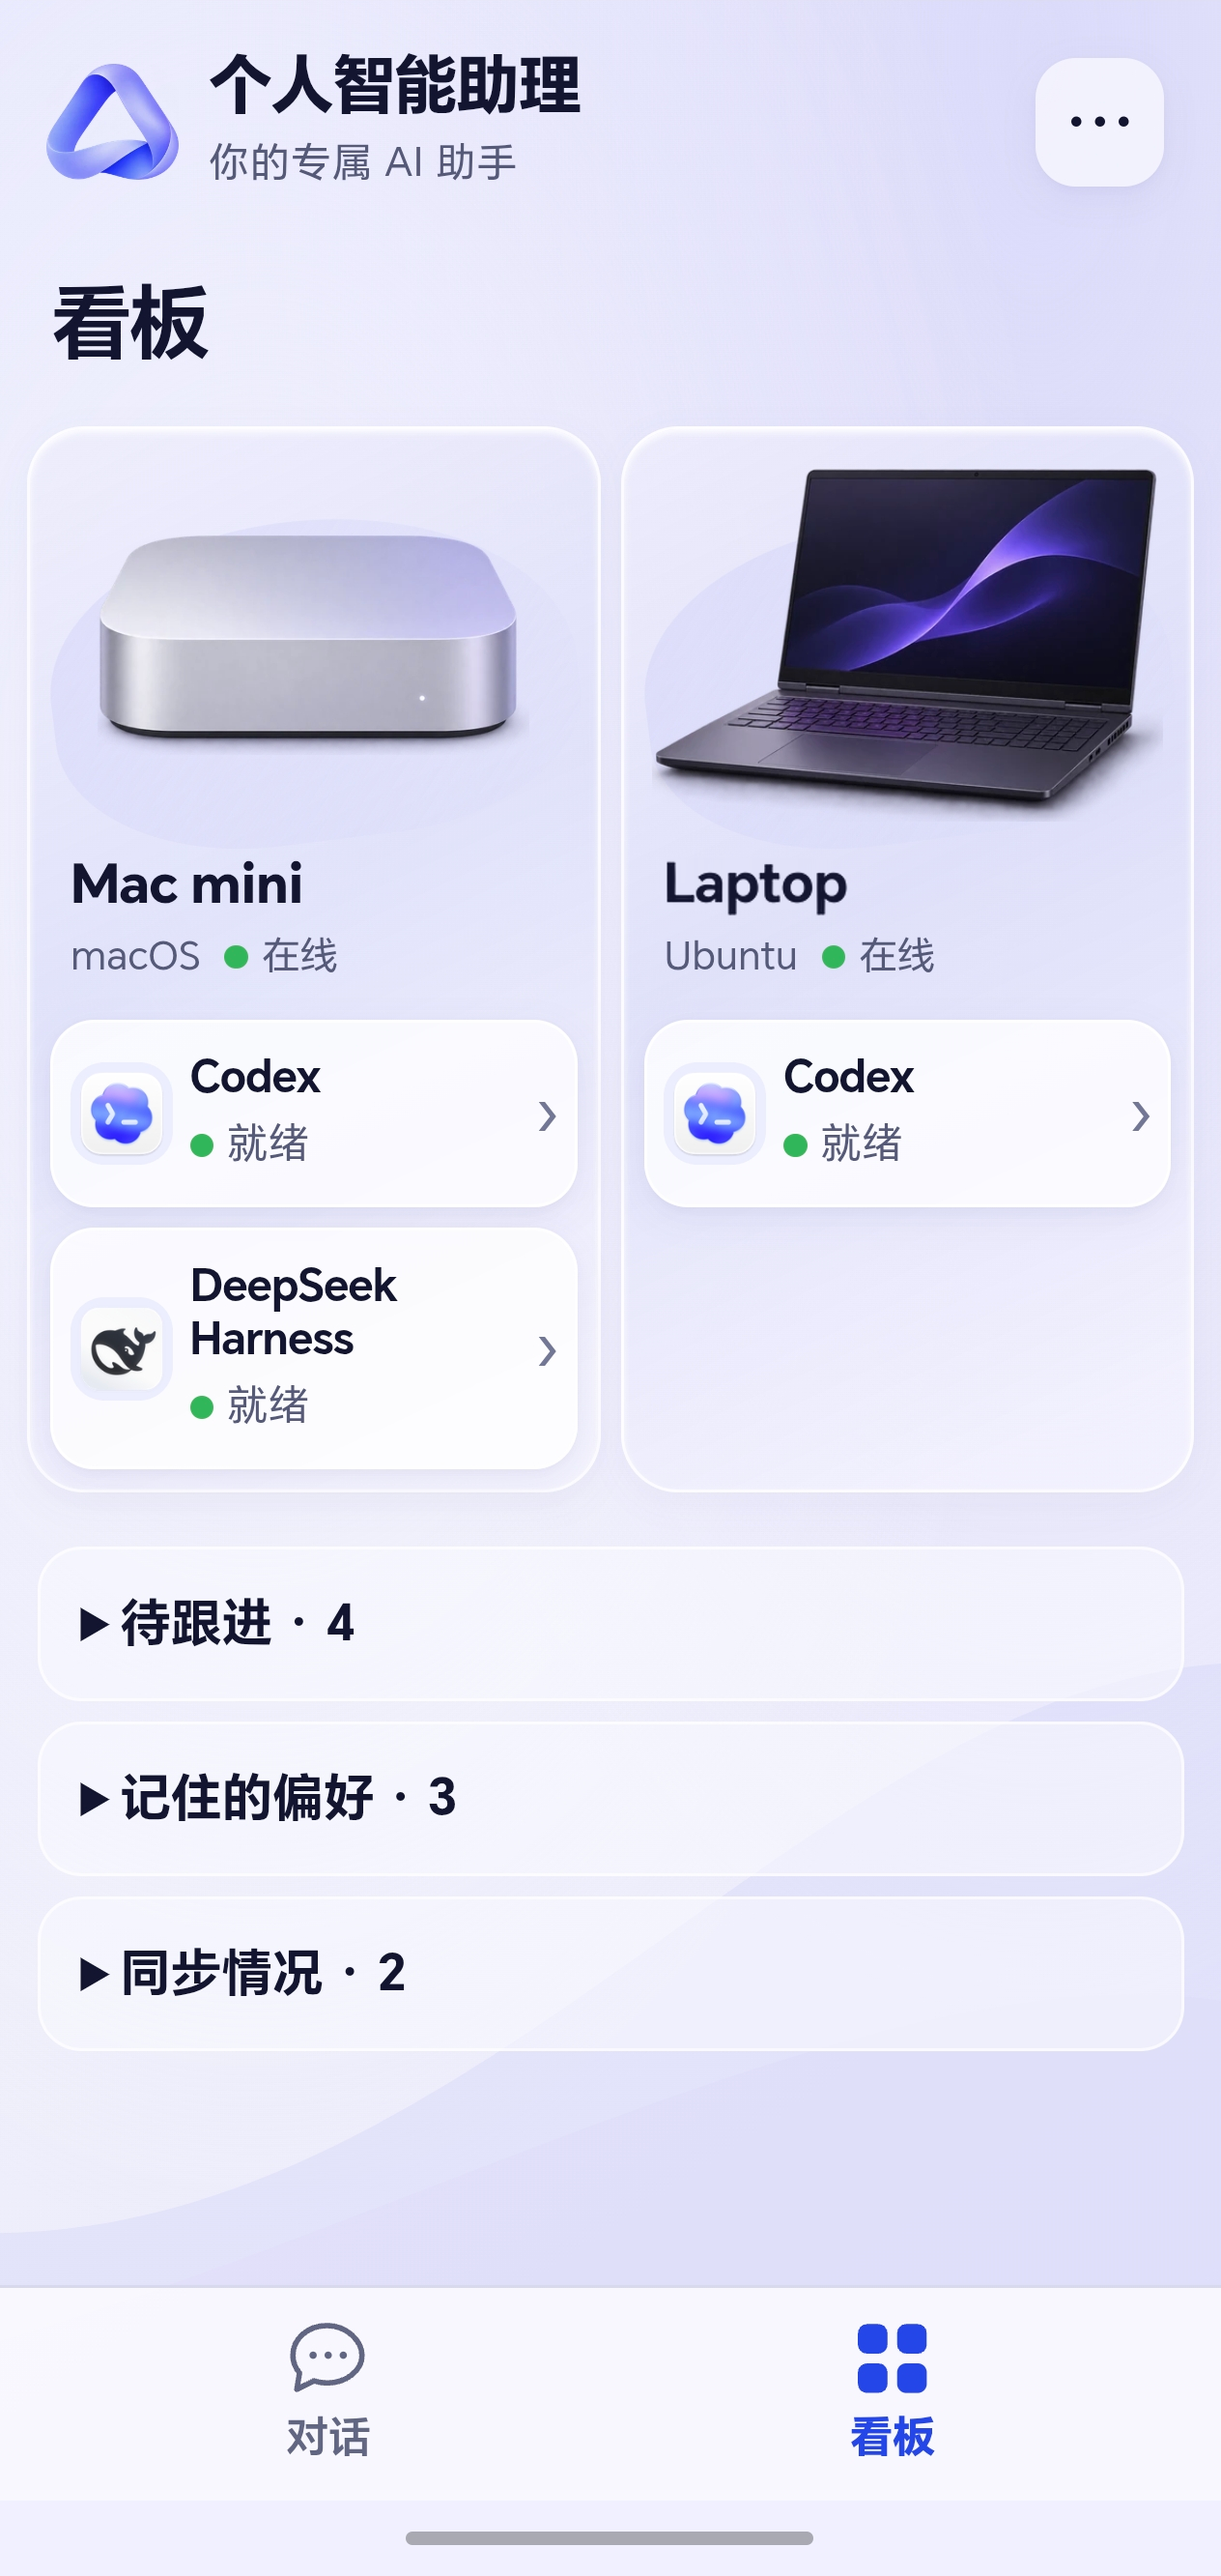
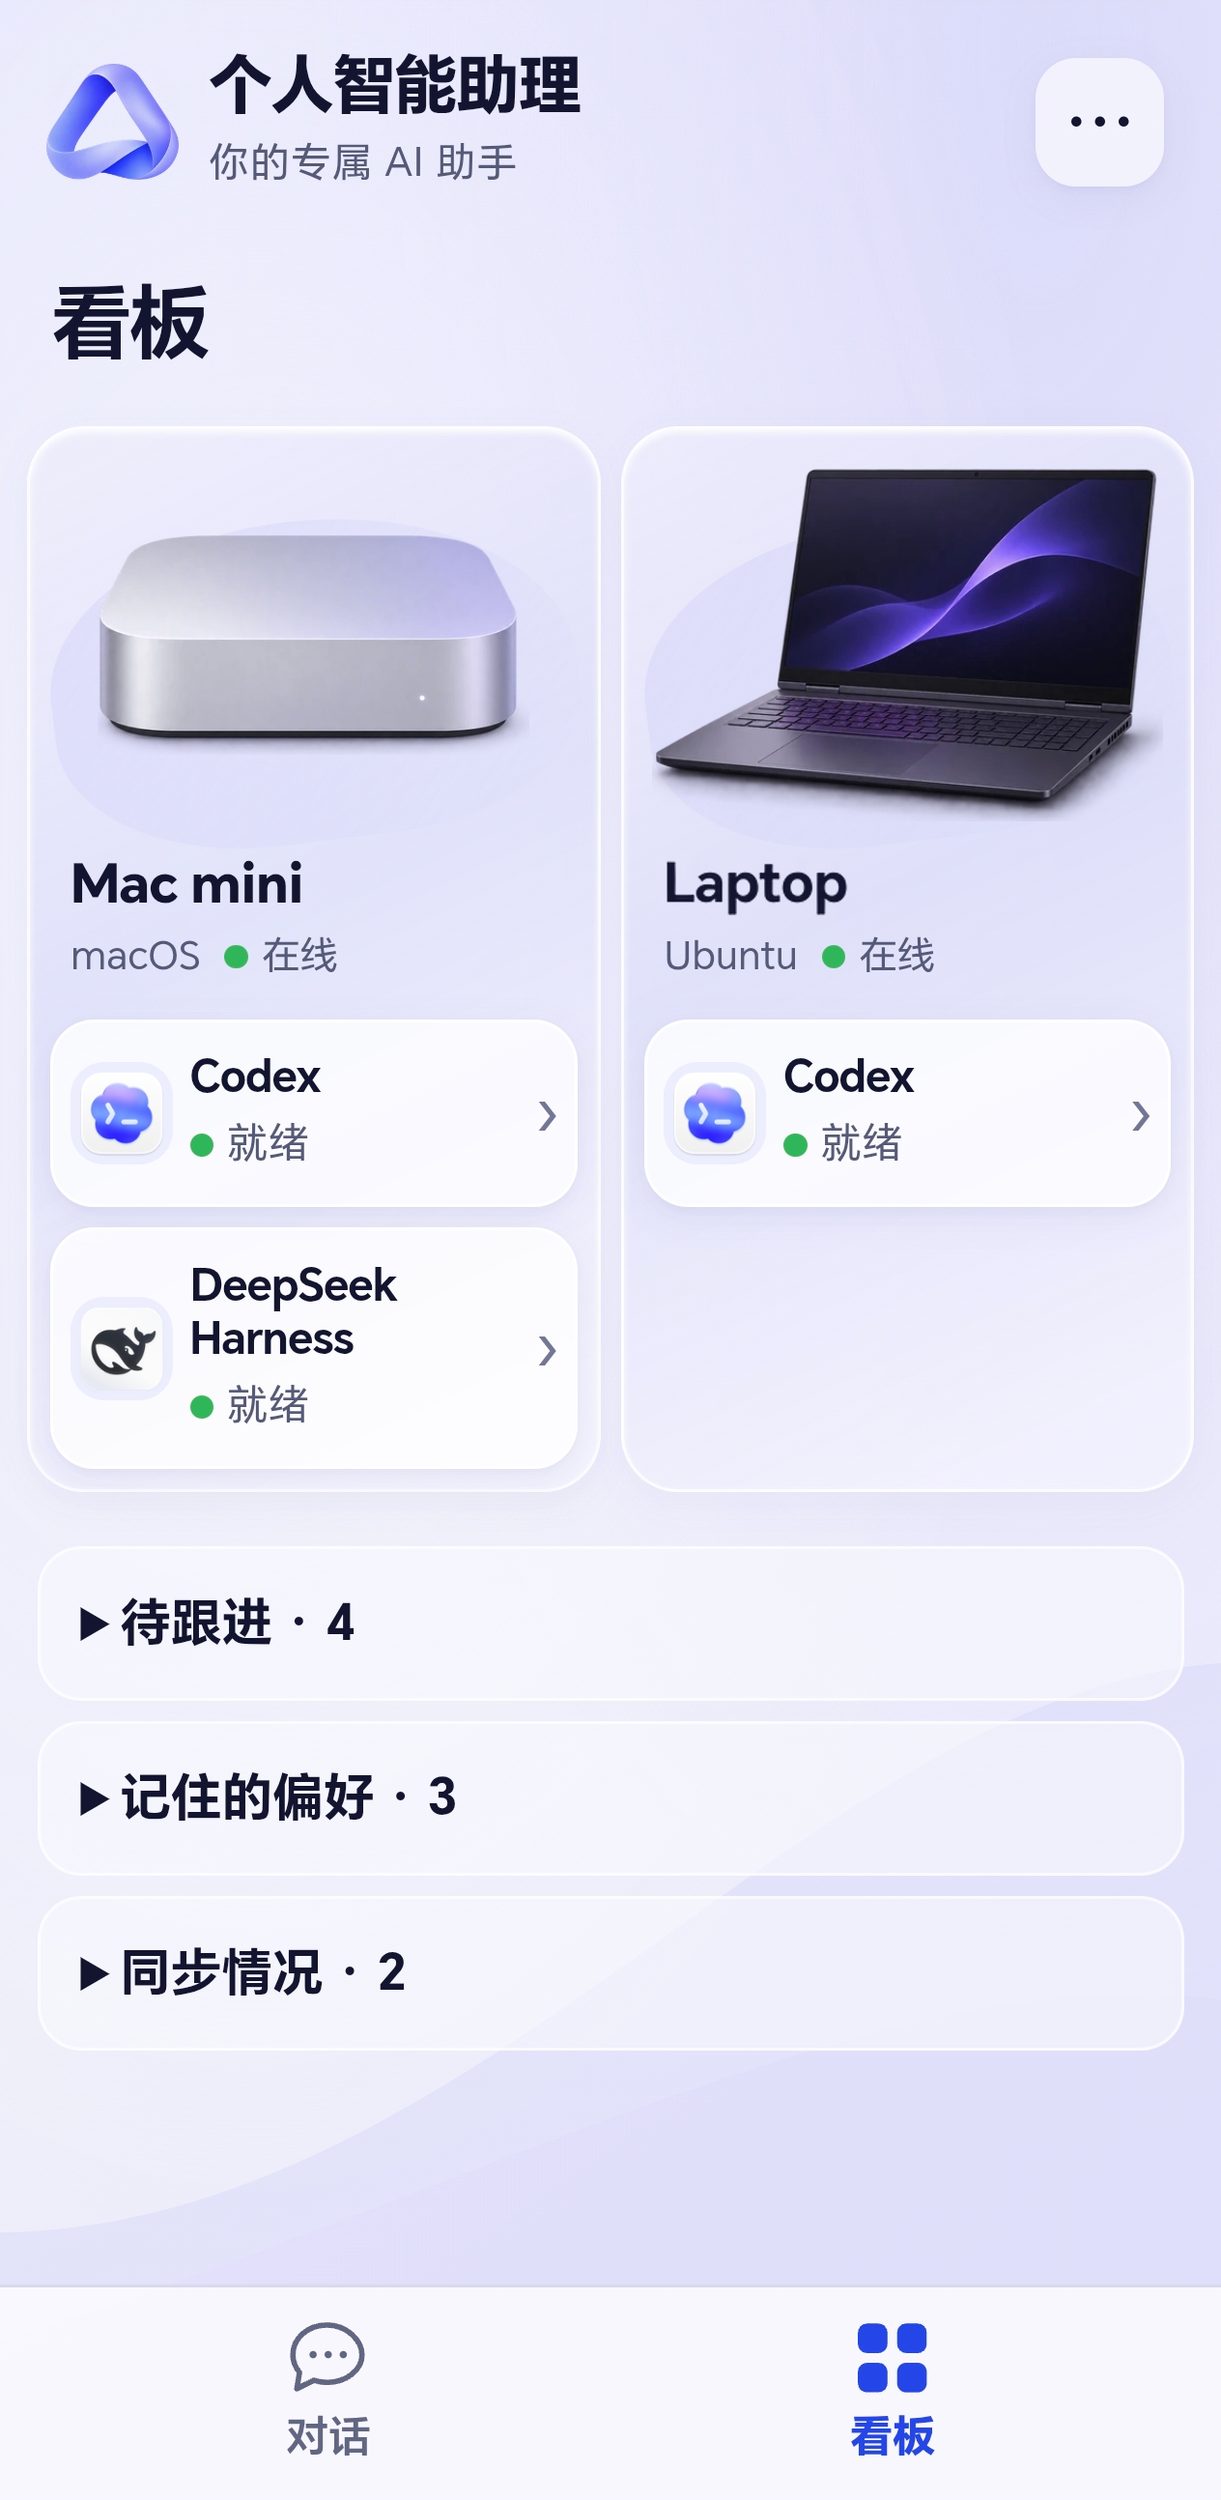
Crop the Android gesture strip and align the README previews

diff --git a/README.md b/README.md
@@ -10,7 +10,7 @@ Talk to Asterhelm in one place. It remembers your preferences and unfinished wor
 
 **设计来源**　Asterhelm 的调度设计参考了 DeepSeek Harness（DSH）团队的 Super Agent 研究原型。其中，Router 负责对话和派单，Worker 执行任务并回报。星舵把这种分工用在个人的多设备、多 Agent 协作中。[DSH Super Agent 研究原型](https://github.com/deepseek-ai/dsh-superagent-prototype)
 
-<p align="center"><img src="docs/showcase/assets/example-chat.webp" width="210" alt="含派单回执的虚构示例对话"> &nbsp; <img src="docs/images/device-dashboard.webp" width="210" alt="Mac mini 和 Laptop 的设备看板，显示 Codex 和 DeepSeek Harness 的就绪状态"></p>
+<p align="center"><img src="docs/showcase/assets/example-chat.webp" height="436" alt="含派单回执的虚构示例对话"> &nbsp; <img src="docs/images/device-dashboard.webp" height="436" alt="Mac mini 和 Laptop 的设备看板，显示 Codex 和 DeepSeek Harness 的就绪状态"></p>
 
 ## 先跑通一次本地派单
 
